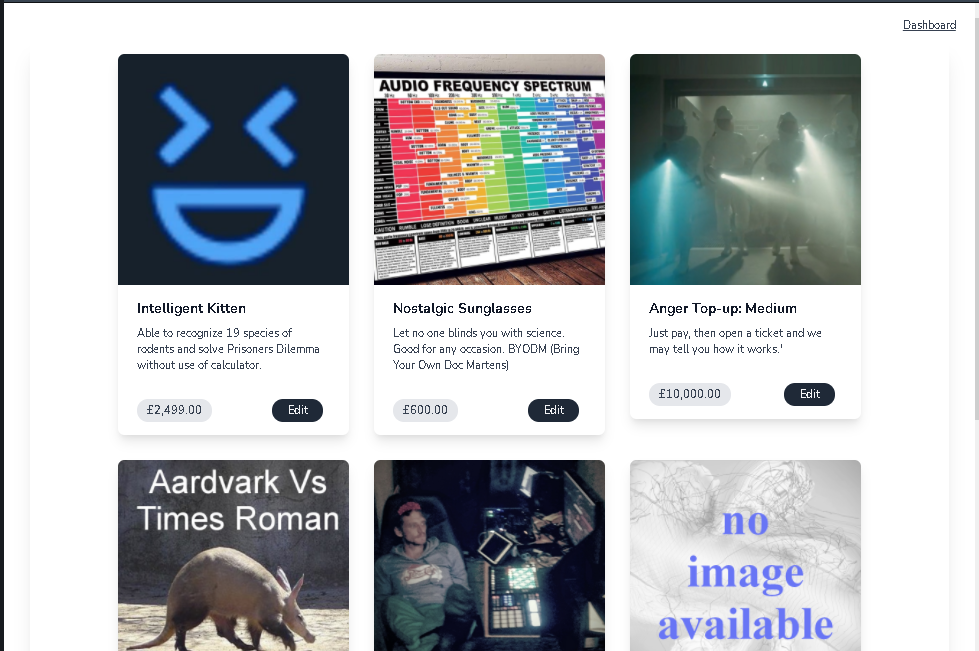
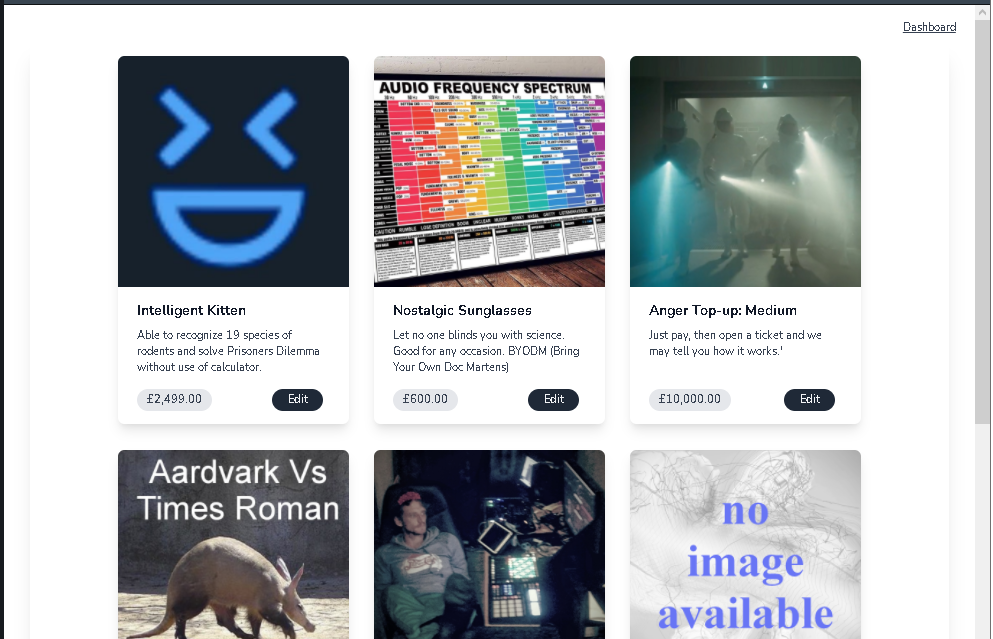
equalize card height

Changed region(s): [[0.1226, 0.0595, 0.8887, 1.0], [0.0, 0.0, 1.0, 0.6839]]

diff --git a/public/css/app.css b/public/css/app.css
@@ -1130,17 +1130,11 @@ select {
 .z-50 {
 	z-index: 50;
 }
-.z-10 {
-	z-index: 10;
-}
 .col-span-6 {
 	grid-column: span 6 / span 6;
 }
 .float-right {
 	float: right;
-}
-.-m-1 {
-	margin: -0.25rem;
 }
 .mx-auto {
 	margin-left: auto;
@@ -1149,10 +1143,6 @@ select {
 .my-20 {
 	margin-top: 5rem;
 	margin-bottom: 5rem;
-}
-.my-auto {
-	margin-top: auto;
-	margin-bottom: auto;
 }
 .ml-3 {
 	margin-left: 0.75rem;
@@ -1253,9 +1243,6 @@ select {
 .grid {
 	display: grid;
 }
-.contents {
-	display: contents;
-}
 .hidden {
 	display: none;
 }
@@ -1289,8 +1276,8 @@ select {
 .h-full {
 	height: 100%;
 }
-.h-screen {
-	height: 100vh;
+.h-28 {
+	height: 7rem;
 }
 .min-h-screen {
 	min-height: 100vh;
@@ -1343,9 +1330,6 @@ select {
 .w-80 {
 	width: 20rem;
 }
-.w-64 {
-	width: 16rem;
-}
 .min-w-0 {
 	min-width: 0px;
 }
@@ -1369,9 +1353,6 @@ select {
 }
 .max-w-none {
 	max-width: none;
-}
-.max-w-lg {
-	max-width: 32rem;
 }
 .flex-1 {
 	flex: 1 1 0%;
@@ -1439,9 +1420,6 @@ select {
 .flex-wrap {
 	flex-wrap: wrap;
 }
-.items-end {
-	align-items: flex-end;
-}
 .items-center {
 	align-items: center;
 }
@@ -1477,11 +1455,6 @@ select {
 	--tw-space-y-reverse: 0;
 	margin-top: calc(1.5rem * calc(1 - var(--tw-space-y-reverse)));
 	margin-bottom: calc(1.5rem * var(--tw-space-y-reverse));
-}
-.space-x-4 > :not([hidden]) ~ :not([hidden]) {
-	--tw-space-x-reverse: 0;
-	margin-right: calc(1rem * var(--tw-space-x-reverse));
-	margin-left: calc(1rem * calc(1 - var(--tw-space-x-reverse)));
 }
 .overflow-hidden {
 	overflow: hidden;
@@ -1572,10 +1545,6 @@ select {
 	--tw-border-opacity: 1;
 	border-color: rgba(156, 163, 175, var(--tw-border-opacity));
 }
-.border-red-500 {
-	--tw-border-opacity: 1;
-	border-color: rgba(239, 68, 68, var(--tw-border-opacity));
-}
 .bg-white {
 	--tw-bg-opacity: 1;
 	background-color: rgba(255, 255, 255, var(--tw-bg-opacity));
@@ -1640,19 +1609,8 @@ select {
 	--tw-bg-opacity: 1;
 	background-color: rgba(254, 202, 202, var(--tw-bg-opacity));
 }
-.bg-black {
-	--tw-bg-opacity: 1;
-	background-color: rgba(0, 0, 0, var(--tw-bg-opacity));
-}
-.bg-red-500 {
-	--tw-bg-opacity: 1;
-	background-color: rgba(239, 68, 68, var(--tw-bg-opacity));
-}
 .bg-opacity-25 {
 	--tw-bg-opacity: 0.25;
-}
-.bg-opacity-75 {
-	--tw-bg-opacity: 0.75;
 }
 .bg-cover {
 	background-size: cover;
@@ -1678,12 +1636,6 @@ select {
 }
 .p-4 {
 	padding: 1rem;
-}
-.p-5 {
-	padding: 1.25rem;
-}
-.p-3 {
-	padding: 0.75rem;
 }
 .px-4 {
 	padding-left: 1rem;
@@ -1745,10 +1697,6 @@ select {
 	padding-left: 2rem;
 	padding-right: 2rem;
 }
-.px-5 {
-	padding-left: 1.25rem;
-	padding-right: 1.25rem;
-}
 .pt-6 {
 	padding-top: 1.5rem;
 }
@@ -1788,9 +1736,6 @@ select {
 .pb-12 {
 	padding-bottom: 3rem;
 }
-.pb-20 {
-	padding-bottom: 5rem;
-}
 .text-left {
 	text-align: left;
 }
@@ -1799,9 +1744,6 @@ select {
 }
 .text-right {
 	text-align: right;
-}
-.align-bottom {
-	vertical-align: bottom;
 }
 .font-sans {
 	font-family: Nunito, ui-sans-serif, system-ui, -apple-system, BlinkMacSystemFont, "Segoe UI", Roboto, "Helvetica Neue", Arial, "Noto Sans", sans-serif, "Apple Color Emoji", "Segoe UI Emoji", "Segoe UI Symbol", "Noto Color Emoji";
@@ -1856,9 +1798,6 @@ select {
 }
 .leading-4 {
 	line-height: 1rem;
-}
-.leading-6 {
-	line-height: 1.5rem;
 }
 .tracking-widest {
 	letter-spacing: 0.1em;
@@ -1964,9 +1903,6 @@ select {
 .opacity-50 {
 	opacity: 0.5;
 }
-.opacity-80 {
-	opacity: 0.8;
-}
 .shadow-sm {
 	--tw-shadow: 0 1px 2px 0 rgba(0, 0, 0, 0.05);
 	box-shadow: var(--tw-ring-offset-shadow, 0 0 #0000), var(--tw-ring-shadow, 0 0 #0000), var(--tw-shadow);
@@ -1986,10 +1922,6 @@ select {
 .shadow-xl {
 	--tw-shadow: 0 20px 25px -5px rgba(0, 0, 0, 0.1), 0 10px 10px -5px rgba(0, 0, 0, 0.04);
 	box-shadow: var(--tw-ring-offset-shadow, 0 0 #0000), var(--tw-ring-shadow, 0 0 #0000), var(--tw-shadow);
-}
-.outline-none {
-	outline: 2px solid transparent;
-	outline-offset: 2px;
 }
 .ring-1 {
 	--tw-ring-offset-shadow: var(--tw-ring-inset) 0 0 0 var(--tw-ring-offset-width) var(--tw-ring-offset-color);
@@ -2019,11 +1951,6 @@ select {
 }
 .transition-all {
 	transition-property: all;
-	transition-timing-function: cubic-bezier(0.4, 0, 0.2, 1);
-	transition-duration: 150ms;
-}
-.transition-opacity {
-	transition-property: opacity;
 	transition-timing-function: cubic-bezier(0.4, 0, 0.2, 1);
 	transition-duration: 150ms;
 }
@@ -2076,9 +2003,13 @@ select {
 	--tw-bg-opacity: 1;
 	background-color: rgba(249, 250, 251, var(--tw-bg-opacity));
 }
-.hover\:bg-red-700:hover {
+.hover\:bg-purple-700:hover {
 	--tw-bg-opacity: 1;
-	background-color: rgba(185, 28, 28, var(--tw-bg-opacity));
+	background-color: rgba(109, 40, 217, var(--tw-bg-opacity));
+}
+.hover\:bg-purple-800:hover {
+	--tw-bg-opacity: 1;
+	background-color: rgba(91, 33, 182, var(--tw-bg-opacity));
 }
 .hover\:text-gray-500:hover {
 	--tw-text-opacity: 1;
@@ -2102,10 +2033,6 @@ select {
 }
 .hover\:underline:hover {
 	text-decoration: underline;
-}
-.hover\:shadow-lg:hover {
-	--tw-shadow: 0 10px 15px -3px rgba(0, 0, 0, 0.1), 0 4px 6px -2px rgba(0, 0, 0, 0.05);
-	box-shadow: var(--tw-ring-offset-shadow, 0 0 #0000), var(--tw-ring-shadow, 0 0 #0000), var(--tw-shadow);
 }
 .focus\:z-10:focus {
 	z-index: 10;
@@ -2192,11 +2119,6 @@ select {
 	--tw-ring-shadow: var(--tw-ring-inset) 0 0 0 calc(0px + var(--tw-ring-offset-width)) var(--tw-ring-color);
 	box-shadow: var(--tw-ring-offset-shadow), var(--tw-ring-shadow), var(--tw-shadow, 0 0 #0000);
 }
-.focus\:ring-2:focus {
-	--tw-ring-offset-shadow: var(--tw-ring-inset) 0 0 0 var(--tw-ring-offset-width) var(--tw-ring-offset-color);
-	--tw-ring-shadow: var(--tw-ring-inset) 0 0 0 calc(2px + var(--tw-ring-offset-width)) var(--tw-ring-color);
-	box-shadow: var(--tw-ring-offset-shadow), var(--tw-ring-shadow), var(--tw-shadow, 0 0 #0000);
-}
 .focus\:ring-gray-300:focus {
 	--tw-ring-opacity: 1;
 	--tw-ring-color: rgba(209, 213, 219, var(--tw-ring-opacity));
@@ -2213,19 +2135,8 @@ select {
 	--tw-ring-opacity: 1;
 	--tw-ring-color: rgba(191, 219, 254, var(--tw-ring-opacity));
 }
-.focus\:ring-red-500:focus {
-	--tw-ring-opacity: 1;
-	--tw-ring-color: rgba(239, 68, 68, var(--tw-ring-opacity));
-}
-.focus\:ring-indigo-500:focus {
-	--tw-ring-opacity: 1;
-	--tw-ring-color: rgba(99, 102, 241, var(--tw-ring-opacity));
-}
 .focus\:ring-opacity-50:focus {
 	--tw-ring-opacity: 0.5;
-}
-.focus\:ring-offset-2:focus {
-	--tw-ring-offset-width: 2px;
 }
 .active\:bg-gray-100:active {
 	--tw-bg-opacity: 1;
@@ -2279,11 +2190,6 @@ select {
 		margin-bottom: -1px;
 	}
 
-	.sm\:my-8 {
-		margin-top: 2rem;
-		margin-bottom: 2rem;
-	}
-
 	.sm\:ml-3 {
 		margin-left: 0.75rem;
 	}
@@ -2316,10 +2222,6 @@ select {
 		display: block;
 	}
 
-	.sm\:inline-block {
-		display: inline-block;
-	}
-
 	.sm\:flex {
 		display: flex;
 	}
@@ -2336,20 +2238,12 @@ select {
 		height: 5rem;
 	}
 
-	.sm\:h-screen {
-		height: 100vh;
-	}
-
 	.sm\:w-10 {
 		width: 2.5rem;
 	}
 
 	.sm\:w-full {
 		width: 100%;
-	}
-
-	.sm\:w-auto {
-		width: auto;
 	}
 
 	.sm\:max-w-md {
@@ -2391,10 +2285,6 @@ select {
 		--tw-scale-x: 1;
 		--tw-scale-y: 1;
 		transform: var(--tw-transform);
-	}
-
-	.sm\:flex-row-reverse {
-		flex-direction: row-reverse;
 	}
 
 	.sm\:items-start {
@@ -2445,10 +2335,6 @@ select {
 		padding: 1.5rem;
 	}
 
-	.sm\:p-0 {
-		padding: 0px;
-	}
-
 	.sm\:px-6 {
 		padding-left: 1.5rem;
 		padding-right: 1.5rem;
@@ -2479,15 +2365,6 @@ select {
 	.sm\:text-right {
 		text-align: right;
 	}
-
-	.sm\:align-middle {
-		vertical-align: middle;
-	}
-
-	.sm\:text-sm {
-		font-size: 0.875rem;
-		line-height: 1.25rem;
-	}
 }
 @media (min-width: 768px) {
 
@@ -2509,14 +2386,6 @@ select {
 
 	.md\:mt-8 {
 		margin-top: 2rem;
-	}
-
-	.md\:mb-0 {
-		margin-bottom: 0px;
-	}
-
-	.md\:block {
-		display: block;
 	}
 
 	.md\:flex {

diff --git a/resources/views/product/cards.blade.php b/resources/views/product/cards.blade.php
@@ -10,7 +10,7 @@
                         <div class="p-4 w-80">
                             <div class="max-w-sm bg-white rounded-lg overflow-hidden shadow-lg">
                                 <img class="w-full" src="{{ $p->image_path }}" alt="{{ $p->name }} image">
-                                <div class="px-6 py-4">
+                                <div class="px-6 py-4 h-28">
                                     <div class="font-bold text-lg mb-2">{{$p->name}}</div>
                                     <p class="text-gray-700 text-sm">{{$p->description}}</p>
                                 </div>
@@ -19,9 +19,11 @@
                                         &#163;{{ number_format($p->price, 2, '.', ',') }}
                                     </span>
                                     @auth
-                                    <span class="inline-block bg-gray-800 rounded-full w-16 px-3 py-1 text-sm font-semibold text-gray-100 mr-2 float-right text-center">
-                                        Edit
-                                    </span>
+                                    <a href="{{ route('update-product', $p->id) }}">
+                                        <span class="inline-block bg-gray-800 hover:bg-purple-800 rounded-full w-16 px-3 py-1 text-sm font-semibold text-gray-100 mr-2 float-right text-center">
+                                            Edit
+                                        </span>
+                                    </a>
                                     @endauth
                                 </div>
                             </div>
